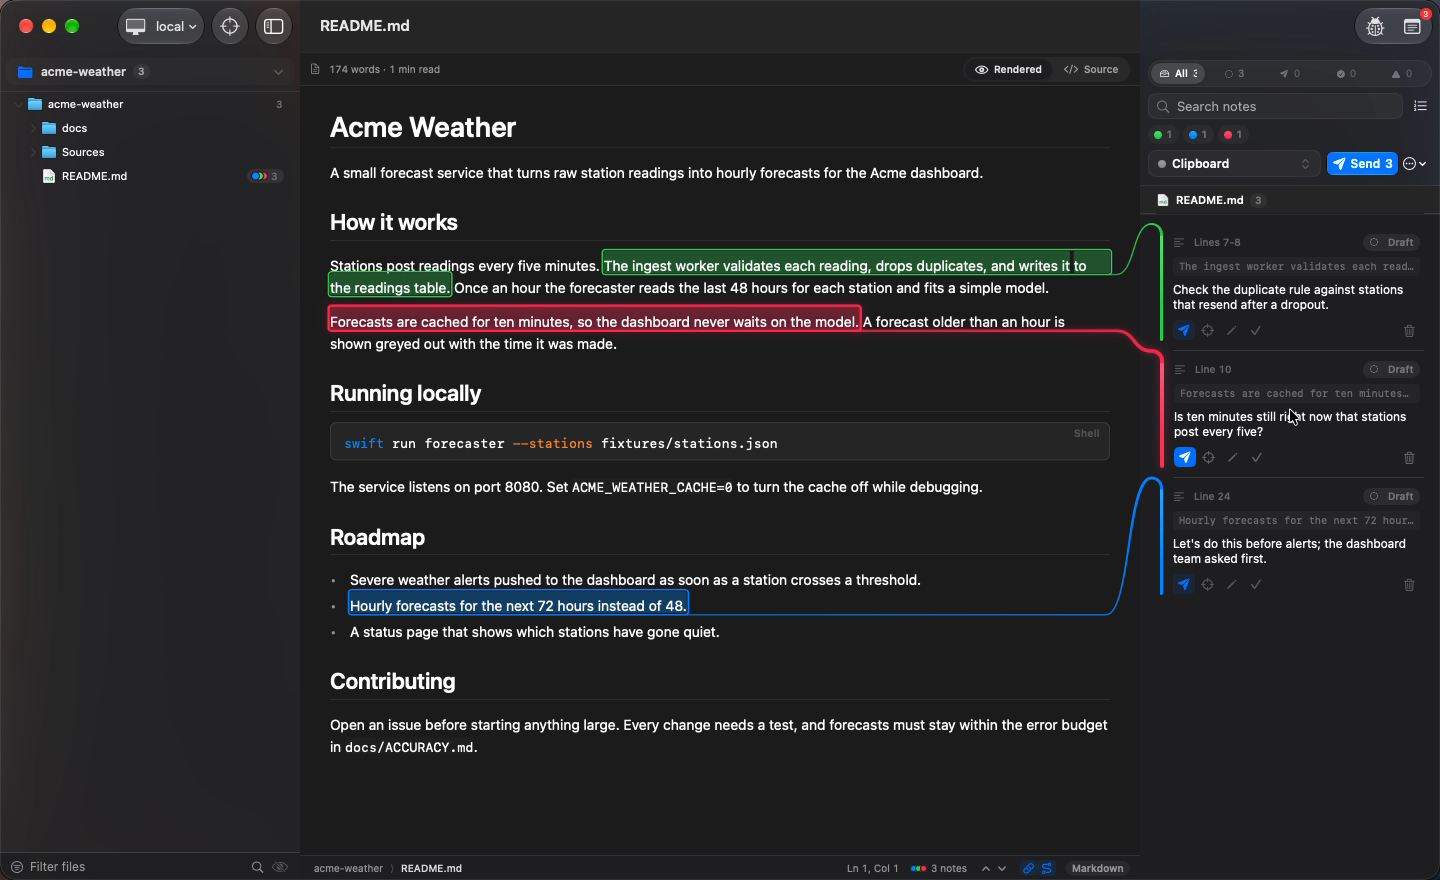
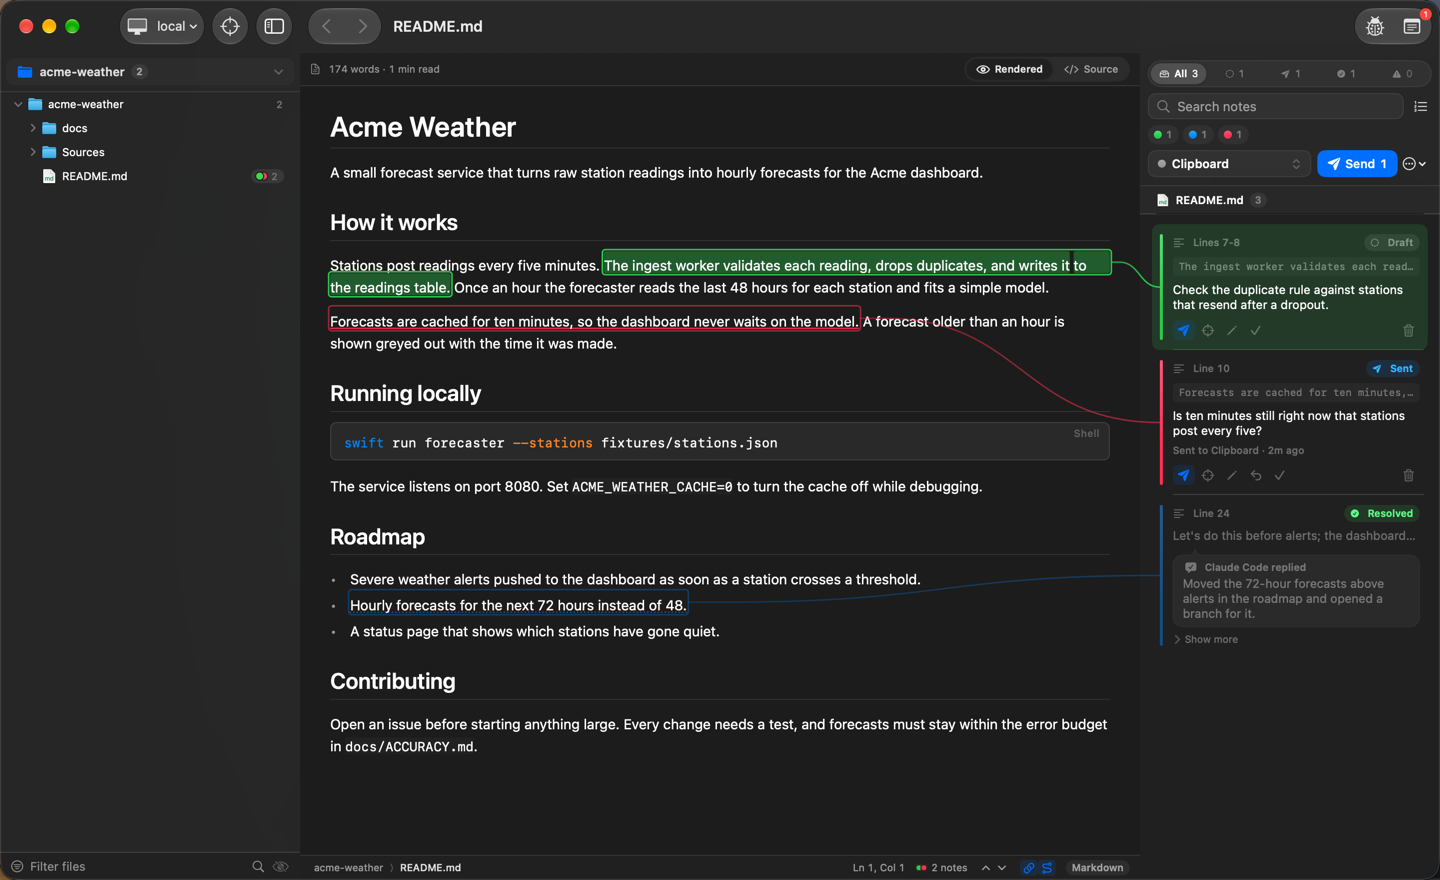
Re-shoot the README's hero, and name today's features in it
The still and GIF were from before paths met the card's color bar and before the header's Send came back. The new
ones, on the same acme-weather scene, show a draft being made and sent beside a note already sent (an underline) and
one Claude Code resolved with a reply, paths to each card. The GIF is 1.3 MB, down from 5.1 MB.

The feature list adds each folder picking its agent, Markdown drawn as GitHub draws it, a note's conversation, and
the page drawing what the panel lists.

Claude-Session: https://claude.ai/code/session_01Gtgm1ZmheHcD7i8caFQE8x

diff --git a/README.md b/README.md
@@ -13,7 +13,7 @@
 <p align="center">
   <picture>
     <source media="(prefers-reduced-motion: reduce)" srcset="docs/media/hero.png">
-    <img src="docs/media/hero.gif" width="880" alt="Selecting a sentence in a Markdown file, adding a note to it, and sending it to an agent. Each highlight on the page is joined by a curve to its card in the notes panel.">
+    <img src="docs/media/hero.gif" width="880" alt="Selecting a sentence in a Markdown file, adding a note to it, and sending it to an agent, beside a note already sent and one the agent has resolved with a reply. Each highlight on the page is joined by a curve to its card in the notes panel.">
   </picture>
 </p>
 
@@ -29,10 +29,15 @@ context, and the agent marks each one resolved when it's done.
 - **Find your way.** Open Quickly, Find in Files, Go to Line, favorite folders, and Back and Forward between the
   places you've been.
 - **Every way to reach an agent.** Herdr, OpenCode's API, tmux or the clipboard out; MCP for the agent's replies.
-  Nothing leaves Gloss until you press Send.
+  Each folder picks the agent you last chose there, or the one working in it. Nothing leaves Gloss until you press
+  Send.
+- **Markdown as GitHub shows it.** Rendered Markdown draws the HTML GitHub allows, pictures from the web and GIFs
+  that play.
 - **Reviews too.** GitHub pull requests, Jira issues and Confluence pages open as documents you can annotate.
 - **Work through notes together.** Select several cards to send, resolve, recolor, copy as a packet or delete them
-  at once, or put sent and resolved notes back to drafts. Edit a note right in its card.
+  at once, or put sent and resolved notes back to drafts. Edit a note right in its card, and open its conversation
+  with the agent when you want the whole thread. The page draws the notes the panel lists, and resolved ones can be
+  hidden.
 - **Link and paths.** The notes panel follows the page, and a curve runs from each highlight to the middle of its
   card's color bar.
 - **Picks up where you left off.** Your folders, the document you were reading and where, Back and Forward, and the
